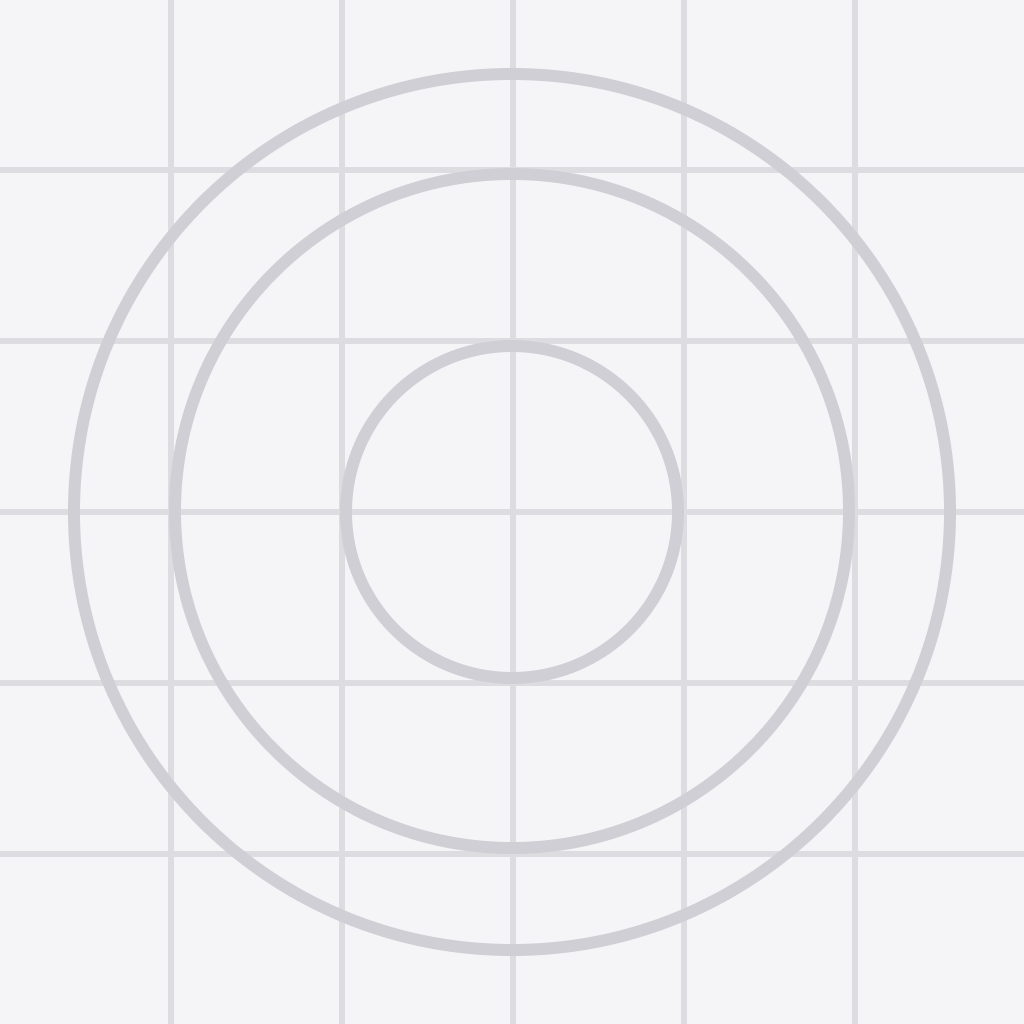
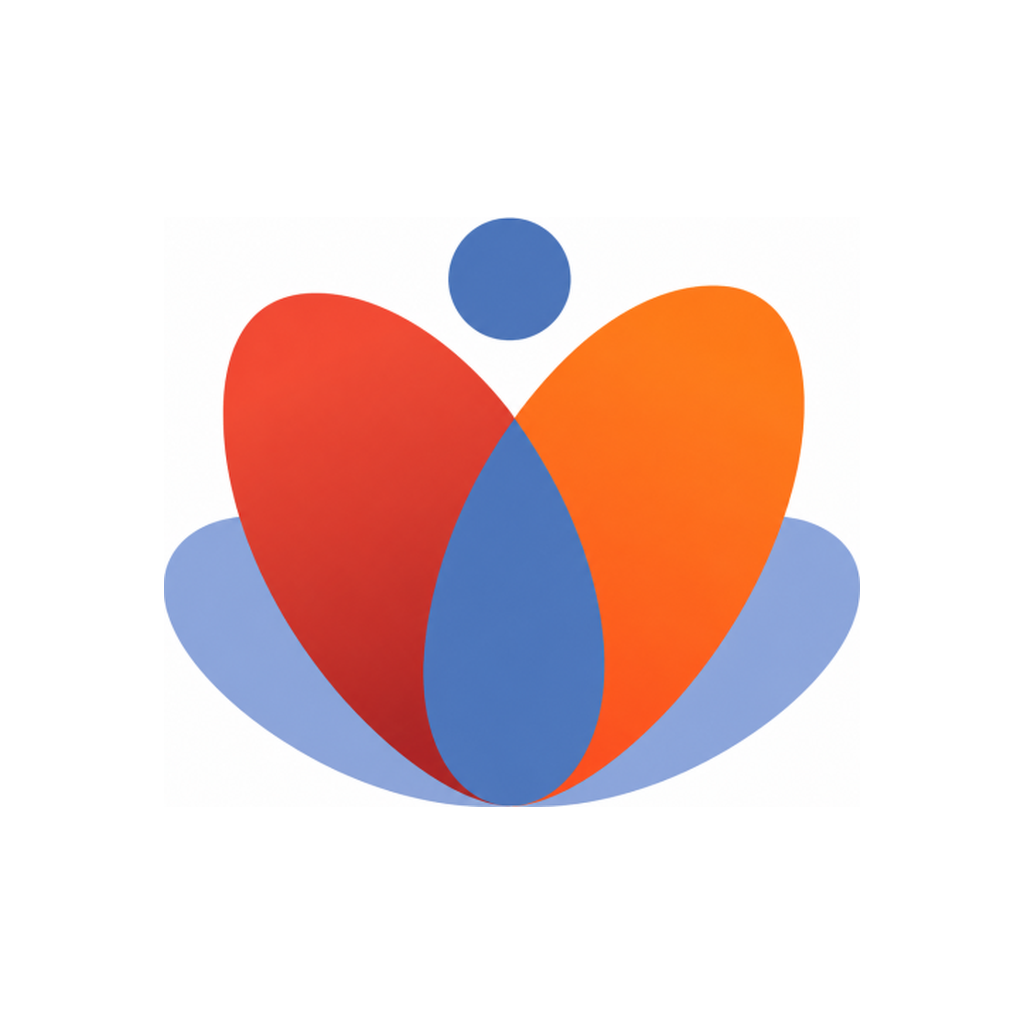
Merge pull request #69 from Code4Good-RUNI/final-fixes-2
Personal data screen
Fixed the email row

App icon
Updated icon.png and adaptive-icon.png with padded, safe-zone-compliant versions of the logo. app.json now points at the correct file for each slot.

Campaign duration display
Campaigns now show the new duration string field instead of the old durationInHours number + hardcoded "שעות" suffix.
Updated in activities.tsx, CampaignDetailsModal.tsx, past.tsx, and FutureCampaignItem.tsx.

Pull request: Final fixes 2
**Personal data screen**
Fixed the email row

**App icon**
Updated icon.png and adaptive-icon.png with padded, safe-zone-compliant versions of the logo. app.json now points at the correct file for each slot.

**Campaign duration display**
Campaigns now show the new duration string field instead of the old durationInHours number + hardcoded "שעות" suffix.
Updated in activities.tsx, CampaignDetailsModal.tsx, past.tsx, and FutureCampaignItem.tsx.

diff --git a/apps/mobile/src/app/(tabs)/personal-data.tsx b/apps/mobile/src/app/(tabs)/personal-data.tsx
@@ -232,8 +232,8 @@ const styles = StyleSheet.create({
     borderBottomColor: '#eee',
   },
   rowLast: { borderBottomWidth: 0 },
-  label: { color: '#666' },
-  value: { fontWeight: '500' },
+  label: { color: '#666', flexShrink: 0 },
+  value: { fontWeight: '500', flex: 1, textAlign: 'auto', marginHorizontal: 8 },
   card: {
     backgroundColor: '#f9f9f9',
     padding: 15,

diff --git a/apps/mobile/src/app/(tabs)/activities.tsx b/apps/mobile/src/app/(tabs)/activities.tsx
@@ -89,7 +89,7 @@ function ActiveCampaignItem({ item, contacts, contactsLoading, onShowModal, onPr
         title={item.name}
         host={`${item.host.firstName} ${item.host.lastName}`}
         date={item.startDate}
-        duration={`${item.durationInHours} שעות`}
+        duration={item.duration}
         location={`${item.locationAddress}, ${item.locationCity}`}
         status={isRegistered ? 'נרשמת בהצלחה' : 'פתוח להרשמה'}
         imageUrl={item.imageUrl}

diff --git a/apps/mobile/src/app/(tabs)/my-activities/past.tsx b/apps/mobile/src/app/(tabs)/my-activities/past.tsx
@@ -34,7 +34,7 @@ export default function PreviousActivitiesScreen() {
         renderItem={({ item }) => (
           <MyActivityItem
             title={item.name}
-            date={`${item.startDate} | ${item.durationInHours} שעות`}
+            date={`${item.startDate} | ${item.duration}`}
             location={`${item.locationAddress}, ${item.locationCity}`}
             status={item.hasUserParticipated ? 'נוכח' : 'לא נוכח'}
             imageUrl={item.imageUrl}

diff --git a/apps/mobile/src/components/CampaignDetailsModal.tsx b/apps/mobile/src/components/CampaignDetailsModal.tsx
@@ -20,7 +20,7 @@ export function CampaignDetailsModal({ visible, campaign, onClose }: CampaignDet
             <Text style={styles.host}>{campaign.host.firstName} {campaign.host.lastName}</Text>
 
             <Text style={styles.detailText}>תאריך: {campaign.startDate} {campaign.endDate && campaign.endDate !== campaign.startDate ? `- ${campaign.endDate}` : ''}</Text>
-            <Text style={styles.detailText}>משך זמן: {campaign.durationInHours} שעות</Text>
+            <Text style={styles.detailText}>משך זמן: {campaign.duration}</Text>
             <Text style={styles.detailText}>מיקום: {campaign.locationAddress}, {campaign.locationCity}</Text>
             <Text style={styles.detailText}>מקומות פנויים: {campaign.numOfParticipants ? campaign.numOfParticipants - (campaign.numOfParticipantsRegistered || 0) : 'לא מוגבל'}</Text>
             

diff --git a/apps/mobile/src/components/FutureCampaignItem.tsx b/apps/mobile/src/components/FutureCampaignItem.tsx
@@ -192,7 +192,7 @@ export function FutureCampaignItem({ campaign, onShowModal, onPressDetails }: {
     <>
       <MyActivityItem
         title={campaign.name}
-        date={`${campaign.startDate} | ${campaign.durationInHours} שעות`}
+        date={`${campaign.startDate} | ${campaign.duration}`}
         location={`${campaign.locationAddress}, ${campaign.locationCity}`}
         status={members.length >= 1 ? undefined : statusText}
         imageUrl={campaign.imageUrl}